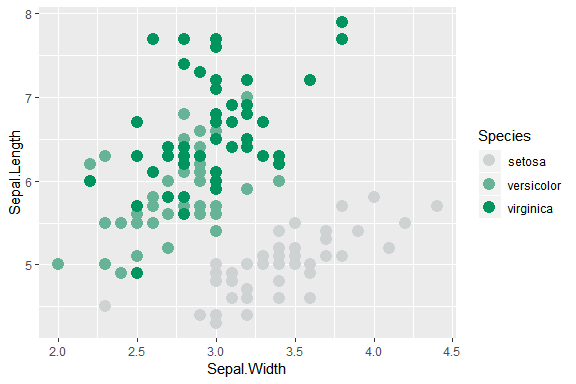
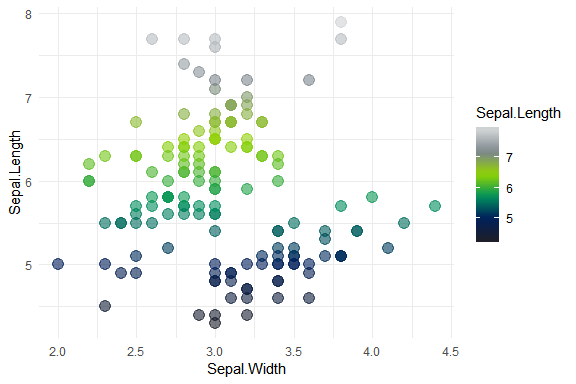
added new palette options (green, gray, dark) + color preview function

diff --git a/README.md b/README.md
@@ -1,5 +1,5 @@
 
-**company-colors** is an R helper package for using my company's color palette in charts.
+**`companycolors`** is an R helper package for using company-specific color palettes in charts.
 
 ### Usage
 
@@ -28,23 +28,37 @@ measure_palette("secondary", reverse = TRUE)(4)
 ## [1] "#EFF0F1" "#C8CCCF" "#A1A9AD" "#7B868C"
 ```
 
-#### Plot!
+#### Preview your color palettes
 
 ``` r
-ggplot(iris, aes(Sepal.Width, Sepal.Length, color = Sepal.Length)) +
-    geom_point(size = 4, alpha = 0.6) +
-    scale_color_measure(discrete = FALSE, palette = "accent", reverse = TRUE)
+glimpse_colors(measure_palette("mixed")(25))
 ```
 
 ![](README_files/figure-markdown_github/unnamed-chunk-4-1.png)
 
 ``` r
-ggplot(iris, aes(Sepal.Width, Sepal.Length, color = Species)) +
-   geom_point(size = 4) +
-   scale_color_measure(palette = "accent", reverse = TRUE)
+glimpse_colors(measure_palette("accent")(25))
+```
+
+![](README_files/figure-markdown_github/unnamed-chunk-4-2.png)
+
+#### Plot!
+
+``` r
+ggplot(iris, aes(Sepal.Width, Sepal.Length, color = Sepal.Length)) +
+    geom_point(size = 4, alpha = 0.6) +
+    scale_color_measure(discrete = FALSE, palette = "mixed", reverse = TRUE)
 ```
 
 ![](README_files/figure-markdown_github/unnamed-chunk-5-1.png)
+
+``` r
+ggplot(iris, aes(Sepal.Width, Sepal.Length, color = Species)) +
+   geom_point(size = 4) +
+   scale_color_measure(palette = "primary", reverse = FALSE)
+```
+
+![](README_files/figure-markdown_github/unnamed-chunk-6-1.png)
 
 ### Credits
 
